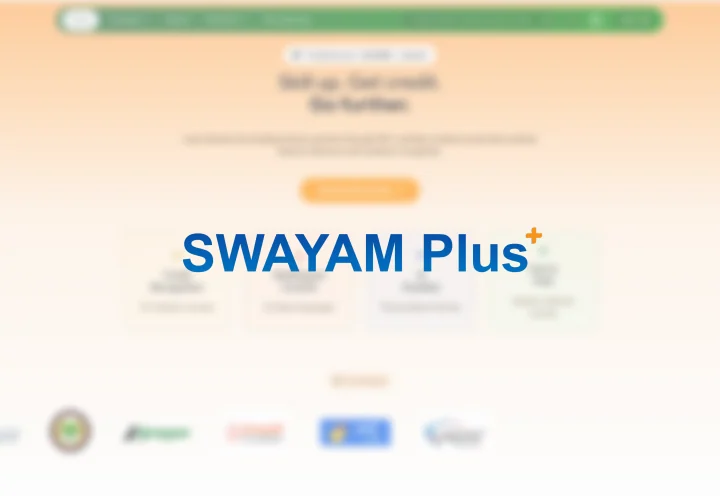
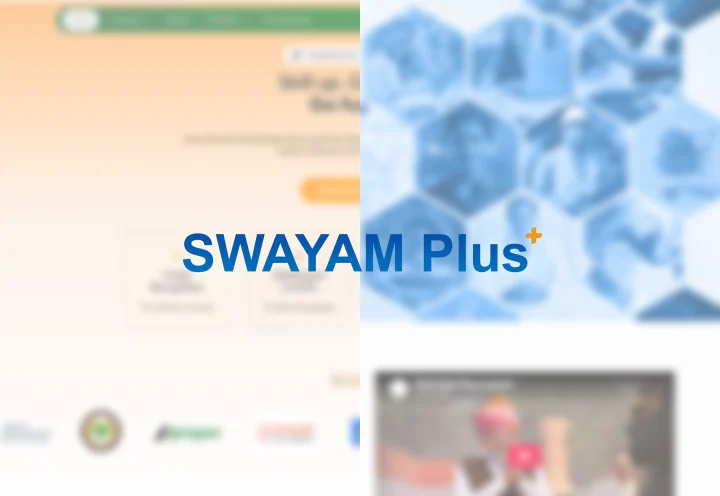
feat: SWAYAM Plus cover shows website left, LMS right; service tags; single-column phones
- SWAYAM Plus cover: left half is the website capture, right half the
  LMS (swayam-plus-lms.iitmpravartak.org.in), both blurred under one
  centred logo, matching the split link zones.
- Tags say what 32Mins delivered as an organisation: "Full-Stack" is now
  "Platform Build"; ChitraVaani's "Video" is "Video Production".
- Our Projects grid is one column below sm; the sneak-peek panel spans
  every column.

diff --git a/src/components/ProjectCards.tsx b/src/components/ProjectCards.tsx
@@ -32,21 +32,21 @@ const media_urls = [
       { label: "LMS", url: "https://swayam-plus-lms.iitmpravartak.org.in/" },
     ],
     cover_image: swayamPlusCover,
-    tags: ["Full-Stack", "UI/UX", "LMS", "KMS"],
+    tags: ["Platform Build", "UI/UX", "LMS", "KMS"],
   },
   {
     id: 2,
     title: "ChitraVaani",
     links: [{ label: "Website", url: "https://chitravaani.in/" }],
     cover_image: chitraVaaniCover,
-    tags: ["Full-Stack", "AI", "Video"],
+    tags: ["Platform Build", "AI", "Video Production"],
   },
   {
     id: 3,
     title: "Smart Sutra",
     links: [{ label: "Website", url: "https://www.smartsutra.32mins.in/" }],
     cover_image: smartSutraCover,
-    tags: ["Full-Stack", "AI", "UI/UX"],
+    tags: ["Platform Build", "AI", "UI/UX"],
   },
   {
     id: 4,
@@ -179,7 +179,7 @@ const ProjectCards = () => {
 
   return (
     <div className="w-full px-2 sm:px-4 md:px-10 lg:px-16 xl:px-20">
-      <div className="grid grid-cols-2 md:grid-cols-3 lg:grid-cols-4 gap-3 sm:gap-4 md:gap-5 lg:gap-6 max-w-6xl mx-auto">
+      <div className="grid grid-cols-1 sm:grid-cols-2 md:grid-cols-3 lg:grid-cols-4 gap-4 sm:gap-4 md:gap-5 lg:gap-6 max-w-6xl mx-auto">
         {media_urls.map((media) => {
           const primary = media.links[0];
           const split = media.links.length === 2 ? media.links : null;
@@ -240,7 +240,7 @@ const ProjectCards = () => {
             </div>
           );
         })}
-        <div className="flex flex-col items-center justify-center gap-2 sm:gap-3 md:gap-4 w-full rounded-sm col-span-2 md:col-span-3 lg:col-span-4 min-w-0 mt-4 sm:mt-6 md:mt-8">
+        <div className="flex flex-col items-center justify-center gap-2 sm:gap-3 md:gap-4 w-full rounded-sm col-span-full min-w-0 mt-4 sm:mt-6 md:mt-8">
           <section
             ref={sneakRef}
             className="relative bg-[#000030] border border-[#2943FC]/25 shadow-[0_0_80px_-16px_rgba(41,67,252,0.45)] rounded-lg overflow-hidden w-full min-h-[100px] sm:min-h-[150px] md:min-h-[200px] lg:min-h-[250px] flex items-start justify-center"

diff --git a/CLAUDE.md b/CLAUDE.md
@@ -44,7 +44,7 @@ Menu links use `to="/#section-id"`. `HomePage` reads `hash` from `useLocation()`
 `src/components/grid.tsx` renders the Services section as four pillar cards, one per competency from the owner's 2030 vision document: title, one short description, and the document's sub-service names as `SubpageHeader variant="small"` tag pills (the same pills the project cards use). Copy lives in `src/components/servicesData.ts`: `PILLARS` (title, description, chips, indices into `SERVICES`) and `SERVICES` (the nine individual services with a one-line lead + one supporting sentence; not rendered as cards any more but still the source of the homepage JSON-LD `offers` in `src/pages/home/page.tsx`). `knowsAbout` in `index.html` is updated by hand. The owner chose this over a pill switcher, a bento, and a glass list (Sept 2026), and earlier rejected a rotating carousel, the "Media Content Marketing" card, illustrations, and a scroll-driven "tree" — do not reintroduce them. The section must use only existing surfaces (section pill, `#06041A` card, Tilt3D, SpotlightCard, fade-up easing).
 
 ### Project cards
-`ProjectCards.tsx` shows static cover images only — the owner removed the hover-to-play video previews (and the old `/test` prototype + `.mp4` assets), do not reintroduce them. Every cover follows one recipe (Sept 2026): a 1440px-wide capture of the project's live homepage cropped below its own header, Gaussian-blurred (sigma ≈ 4.5 at 720×496), tinted (white for light sites, navy for dark), with the project's logo composited in the centre; the untouched captures are not kept, so rebuild with `sharp` from a fresh capture. Each card links to the project's live site (`links[]`); a project with exactly two links (SWAYAM Plus: Website + LMS) renders `SplitCover` — one image with two hover zones that widen on hover/focus. Order: SWAYAM Plus, ChitraVaani, Smart Sutra, then the rest; four columns at `lg`. The "Take a sneak peek" panel reveals its device mockups via scroll progress (`useScroll` on the panel), not hover.
+`ProjectCards.tsx` shows static cover images only — the owner removed the hover-to-play video previews (and the old `/test` prototype + `.mp4` assets), do not reintroduce them. Every cover follows one recipe (Sept 2026): a 1440px-wide capture of the project's live homepage cropped below its own header, Gaussian-blurred (sigma ≈ 4.5 at 720×496), tinted (white for light sites, navy for dark), with the project's logo composited in the centre; the untouched captures are not kept, so rebuild with `sharp` from a fresh capture. Each card links to the project's live site (`links[]`); a project with exactly two links (SWAYAM Plus: Website + LMS) renders `SplitCover` — one image with two hover zones that widen on hover/focus; its cover is the website capture on the left half and the LMS capture on the right, sharing one centred logo. Tags describe the organisation's service (e.g. "Platform Build", "Video Production"), never portfolio/skill words like "Full-Stack". Order: SWAYAM Plus, ChitraVaani, Smart Sutra, then the rest; four columns at `lg`. The "Take a sneak peek" panel reveals its device mockups via scroll progress (`useScroll` on the panel), not hover.
 
 ### 3D & interactive pieces
 - `Globe3D.tsx` — photoreal WebGL earth in the Updates section. `/public/textures/earth-day.webp` is NASA Blue Marble (public domain, 4096×2048). Lazy-loaded; the static `/earth2.webp` paints first and crossfades out — that file is a capture of the rendered globe at its initial orientation (regenerate by temporarily setting `preserveDrawingBuffer: true` and saving `canvas.toDataURL()`), so keep them in sync if the initial view changes. Info points are pinned at real lat/long and portal into a marker layer that escapes the earth's alpha mask. The earth and the hero band background dissolve into the page gradient via CSS `mask-image` — never reintroduce a color-matched overlay fade; masks are what keep the section edge seamless. Falls back to the flat image + dot row when WebGL is unavailable or reduced motion is set.
